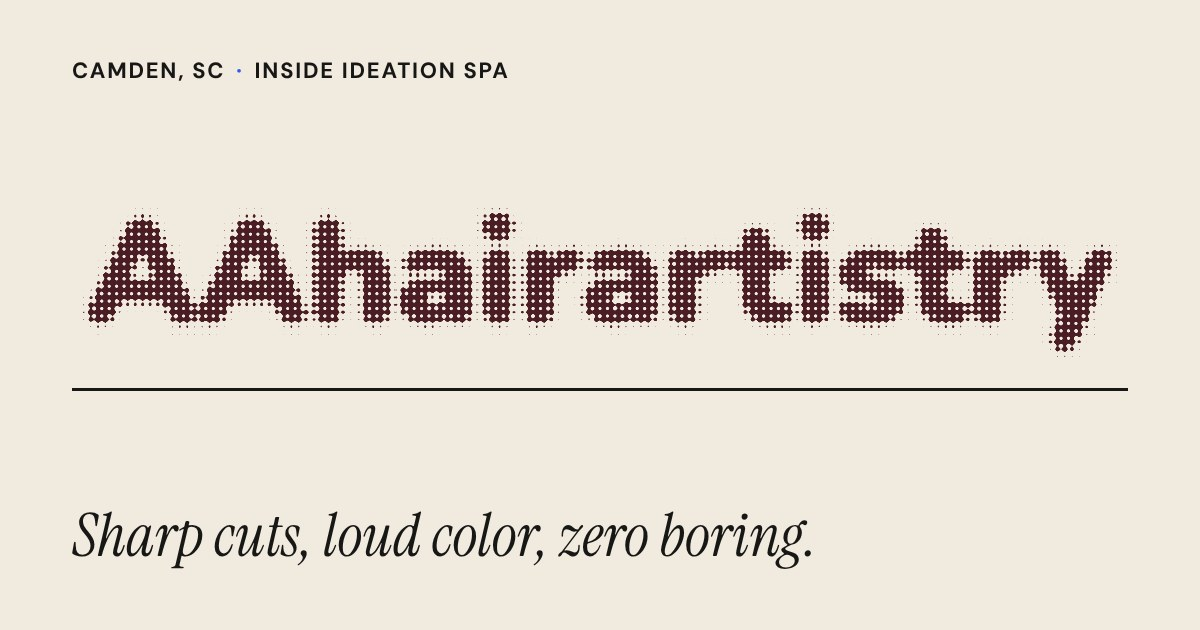
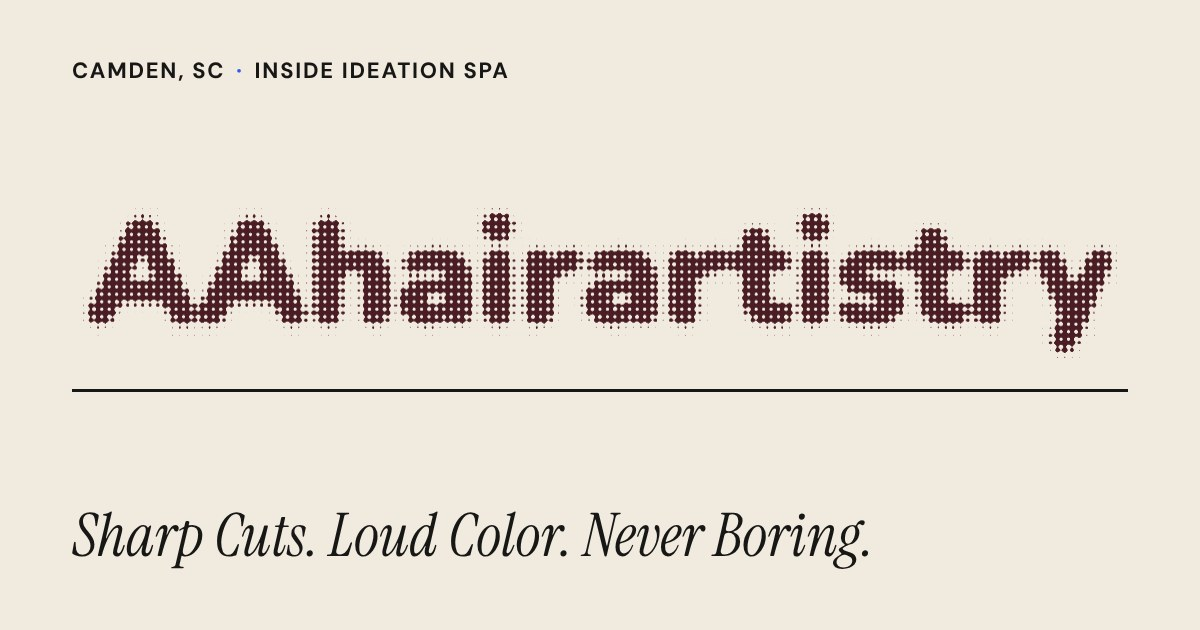
New tagline with an ink-bleed entrance
The tagline is now "Sharp Cuts. Loud Color. Never Boring." The build splits
it into phrases at commas and full stops and writes one SVG filter per
phrase (dilate, blur and turbulence displacement, animated from a swollen,
fibrous blot back to rest). js/ink.js starts them 0.42s apart once the
tagline's font has loaded, then removes the filters so the text ends up
untouched; each phrase is readable within about half a second and all three
are done by about 2.7s.

The tagline is hidden from first paint via a class set in the head and
shown after 3s if the script never runs; it is shown straight away under
reduced motion. Also keeps the wordmark's 3s plain-type safety net working
under reduced motion (the global no-animation rule had disabled it), and
regenerates the social preview image with the new slogan.

Claude-Session: https://claude.ai/code/session_01QwKD1d9HQtZuZyVLujPQKT

Changed region(s): [[0.0617, 0.3619, 0.925, 0.573], [0.1542, 0.8143, 0.74, 0.9048], [0.0617, 0.6032, 0.925, 0.6333]]

diff --git a/index.html b/index.html
@@ -6,7 +6,7 @@
   <meta name="viewport" content="width=device-width, initial-scale=1">
 
   <title>AAHairArtistry | Hair by Adam Arledge in Camden, SC</title>
-  <meta name="description" content="Sharp cuts, loud color, zero boring. Haircuts, color, highlights and balayage, and vivid color by Adam Arledge, inside Ideation Spa in Camden, SC.">
+  <meta name="description" content="Sharp Cuts. Loud Color. Never Boring. Haircuts, color, highlights and balayage, and vivid color by Adam Arledge, inside Ideation Spa in Camden, SC.">
   <meta name="theme-color" content="#F1EADF">
   <link rel="canonical" href="https://adamarledge.github.io/">
 
@@ -14,12 +14,12 @@
   <meta property="og:type" content="website">
   <meta property="og:site_name" content="AAHairArtistry">
   <meta property="og:title" content="AAHairArtistry | Hair by Adam Arledge in Camden, SC">
-  <meta property="og:description" content="Sharp cuts, loud color, zero boring. Inside Ideation Spa, Camden, SC.">
+  <meta property="og:description" content="Sharp Cuts. Loud Color. Never Boring. Inside Ideation Spa, Camden, SC.">
   <meta property="og:url" content="https://adamarledge.github.io/">
   <meta property="og:image" content="https://adamarledge.github.io/images/og-image.jpg">
   <meta property="og:image:width" content="1200">
   <meta property="og:image:height" content="630">
-  <meta property="og:image:alt" content="AAHairArtistry wordmark with the tagline Sharp cuts, loud color, zero boring.">
+  <meta property="og:image:alt" content="AAHairArtistry wordmark with the tagline Sharp Cuts. Loud Color. Never Boring.">
   <meta name="twitter:card" content="summary_large_image">
 
   <link rel="icon" href="assets/svg/favicon.svg" type="image/svg+xml">
@@ -37,11 +37,12 @@
        "js" lays out the header with the Menu button (js/main.js makes it work),
        "halftone" reserves the hero wordmark's box and hides its plain-type
        fallback until js/wordmark.js draws it (the type returns after 3s if it
-       never does). If main.js hasn't run by the time the page has loaded, the
+       never does); "ink" hides the tagline until js/ink.js bleeds it in (same
+       3s safety net). If main.js hasn't run by the time the page has loaded, the
        header goes back to its plain list of links. -->
   <script>
     (function (root) {
-      root.classList.add("js", "halftone");
+      root.classList.add("js", "halftone", "ink");
       window.addEventListener("load", function () {
         if (!root.hasAttribute("data-menu")) root.classList.remove("js");
       });
@@ -54,7 +55,7 @@
     "@context": "https://schema.org",
     "@type": "HairSalon",
     "name": "AAHairArtistry",
-    "description": "Sharp cuts, loud color, zero boring. Haircuts, color, highlights and balayage, and vivid color by Adam Arledge.",
+    "description": "Sharp Cuts. Loud Color. Never Boring. Haircuts, color, highlights and balayage, and vivid color by Adam Arledge.",
     "url": "https://adamarledge.github.io/",
     "image": "https://adamarledge.github.io/images/og-image.jpg",
     "address": {
@@ -85,6 +86,25 @@
 
   <!-- Four-point sparkle, the one recurring motif. Color comes from CSS (currentColor). -->
   <svg width="0" height="0" class="sprite" aria-hidden="true" focusable="false">
+    <!-- Ink-bleed filters for the hero tagline, one per phrase (js/ink.js) -->
+    <filter id="ink-0" x="-6%" y="-25%" width="112%" height="150%" color-interpolation-filters="sRGB">
+      <feMorphology operator="dilate" radius="0" result="spread"><animate attributeName="radius" values="1.6;0.5;0" keyTimes="0;0.35;1" calcMode="spline" keySplines="0.2 0.6 0.35 1;0.3 0.5 0.3 1" dur="1.8s" begin="indefinite" fill="freeze"/></feMorphology>
+      <feGaussianBlur in="spread" stdDeviation="0.001" result="wet"><animate attributeName="stdDeviation" values="3.5;0.9;0.001" keyTimes="0;0.35;1" calcMode="spline" keySplines="0.2 0.6 0.35 1;0.3 0.5 0.3 1" dur="1.8s" begin="indefinite" fill="freeze"/></feGaussianBlur>
+      <feTurbulence type="fractalNoise" baseFrequency="0.05 0.09" numOctaves="2" seed="7" result="fibres"/>
+      <feDisplacementMap in="wet" in2="fibres" scale="0" xChannelSelector="R" yChannelSelector="G"><animate attributeName="scale" values="16;5;0" keyTimes="0;0.35;1" calcMode="spline" keySplines="0.2 0.6 0.35 1;0.3 0.5 0.3 1" dur="1.8s" begin="indefinite" fill="freeze"/></feDisplacementMap>
+    </filter>
+    <filter id="ink-1" x="-6%" y="-25%" width="112%" height="150%" color-interpolation-filters="sRGB">
+      <feMorphology operator="dilate" radius="0" result="spread"><animate attributeName="radius" values="1.6;0.5;0" keyTimes="0;0.35;1" calcMode="spline" keySplines="0.2 0.6 0.35 1;0.3 0.5 0.3 1" dur="1.8s" begin="indefinite" fill="freeze"/></feMorphology>
+      <feGaussianBlur in="spread" stdDeviation="0.001" result="wet"><animate attributeName="stdDeviation" values="3.5;0.9;0.001" keyTimes="0;0.35;1" calcMode="spline" keySplines="0.2 0.6 0.35 1;0.3 0.5 0.3 1" dur="1.8s" begin="indefinite" fill="freeze"/></feGaussianBlur>
+      <feTurbulence type="fractalNoise" baseFrequency="0.05 0.09" numOctaves="2" seed="20" result="fibres"/>
+      <feDisplacementMap in="wet" in2="fibres" scale="0" xChannelSelector="R" yChannelSelector="G"><animate attributeName="scale" values="16;5;0" keyTimes="0;0.35;1" calcMode="spline" keySplines="0.2 0.6 0.35 1;0.3 0.5 0.3 1" dur="1.8s" begin="indefinite" fill="freeze"/></feDisplacementMap>
+    </filter>
+    <filter id="ink-2" x="-6%" y="-25%" width="112%" height="150%" color-interpolation-filters="sRGB">
+      <feMorphology operator="dilate" radius="0" result="spread"><animate attributeName="radius" values="1.6;0.5;0" keyTimes="0;0.35;1" calcMode="spline" keySplines="0.2 0.6 0.35 1;0.3 0.5 0.3 1" dur="1.8s" begin="indefinite" fill="freeze"/></feMorphology>
+      <feGaussianBlur in="spread" stdDeviation="0.001" result="wet"><animate attributeName="stdDeviation" values="3.5;0.9;0.001" keyTimes="0;0.35;1" calcMode="spline" keySplines="0.2 0.6 0.35 1;0.3 0.5 0.3 1" dur="1.8s" begin="indefinite" fill="freeze"/></feGaussianBlur>
+      <feTurbulence type="fractalNoise" baseFrequency="0.05 0.09" numOctaves="2" seed="33" result="fibres"/>
+      <feDisplacementMap in="wet" in2="fibres" scale="0" xChannelSelector="R" yChannelSelector="G"><animate attributeName="scale" values="16;5;0" keyTimes="0;0.35;1" calcMode="spline" keySplines="0.2 0.6 0.35 1;0.3 0.5 0.3 1" dur="1.8s" begin="indefinite" fill="freeze"/></feDisplacementMap>
+    </filter>
     <symbol id="sparkle" viewBox="0 0 100 100">
       <path d="M50 0C52.6 34 66 47.4 100 50 66 52.6 52.6 66 50 100 47.4 66 34 52.6 0 50 34 47.4 47.4 34 50 0Z" fill="currentColor"/>
     </symbol>
@@ -134,7 +154,7 @@
         </h1>
 
         <div class="hero__body">
-          <p class="hero__tagline"><span>Sharp cuts,</span> <span>loud color,</span> <span>zero boring.</span></p>
+          <p class="hero__tagline"><span data-ink="0">Sharp Cuts.</span> <span data-ink="1">Loud Color.</span> <span data-ink="2">Never Boring.</span></p>
           <div class="hero__detail">
             <p class="hero__summary">Haircuts, color, highlights and balayage, and vivid color by Adam Arledge.</p>
             <div class="actions">
@@ -275,5 +295,6 @@
 
   <script src="js/main.js" defer></script>
   <script src="js/wordmark.js" defer></script>
+  <script src="js/ink.js" defer></script>
 </body>
 </html>

diff --git a/js/ink.js b/js/ink.js
@@ -1,0 +1,46 @@
+// Ink bleed for the hero tagline. Each phrase soaks in like ink on paper:
+// a swollen, feathered blot with fibrous edges that draws in to crisp
+// letters. The look is an SVG filter per phrase (generated into the page by
+// scripts/build.mjs); this starts them, staggered, once the tagline's font
+// has loaded, and removes the filters when they've finished so the text ends
+// up exactly as normal. Skipped under "reduce motion".
+(function () {
+  "use strict";
+
+  var tagline = document.querySelector(".hero__tagline");
+  if (!tagline || window.matchMedia("(prefers-reduced-motion: reduce)").matches) return;
+
+  var START = 0.1;    // seconds before the first phrase, and between phrases
+  var STEP = 0.42;    // (keep in step with the animation-delay in css/styles.css)
+  var DURATION = 1.8; // each phrase's bleed (the filters' dur)
+  var phrases = tagline.querySelectorAll("[data-ink]");
+
+  function start() {
+    Array.prototype.forEach.call(phrases, function (span, i) {
+      var filter = document.getElementById("ink-" + span.getAttribute("data-ink"));
+      if (!filter || !filter.querySelector("animate").beginElementAt) return;
+      span.style.setProperty("--ink-order", i);
+      span.style.filter = "url(#" + filter.id + ")";
+      Array.prototype.forEach.call(filter.querySelectorAll("animate"), function (a) {
+        a.beginElementAt(START + i * STEP);
+      });
+    });
+    tagline.classList.add("is-bleeding");
+    // Back to plain text once every phrase has dried
+    setTimeout(function () {
+      Array.prototype.forEach.call(phrases, function (span) { span.style.filter = ""; });
+    }, (START + (phrases.length - 1) * STEP + DURATION) * 1000 + 100);
+  }
+
+  // Wait for the tagline's font so it doesn't swap mid-bleed, but not past
+  // the point where the CSS gives up and shows it anyway (3s)
+  var started = false;
+  var once = function () { if (!started) { started = true; start(); } };
+  if (document.fonts && document.fonts.load) {
+    var style = getComputedStyle(tagline);
+    document.fonts.load(style.fontStyle + " " + style.fontWeight + " 16px " + style.fontFamily, tagline.textContent).then(once, once);
+    setTimeout(once, 2500);
+  } else {
+    once();
+  }
+})();

diff --git a/css/styles.css b/css/styles.css
@@ -411,8 +411,23 @@ html:not(.js) .site-header__bar { flex-wrap: wrap; }
   line-height: 1;
   letter-spacing: -0.01em;
 }
-/* Break only at the commas */
+/* Each phrase is a span, so lines break only between phrases.
+   Ink bleed (js/ink.js): on load the phrases soak in one after another, like
+   ink on paper. Each starts as a swollen, feathered blot with fibrous edges
+   (its SVG filter in the page's sprite), then draws in to crisp letters.
+   html.ink is set in the <head> so the tagline is hidden from the first paint
+   rather than flashing; it appears anyway after 3s if the script never runs.
+   Under "reduce motion" the tagline is simply shown. */
 .hero__tagline span { display: inline-block; }
+@media (prefers-reduced-motion: no-preference) {
+  .ink .hero__tagline span { opacity: 0; animation: ink-fallback 0s 3s forwards; }
+  .ink .hero__tagline.is-bleeding span {
+    animation: ink-in 1.8s cubic-bezier(0.2, 0.6, 0.35, 1) both;
+    animation-delay: calc(0.1s + var(--ink-order, 0) * 0.42s);
+  }
+}
+@keyframes ink-fallback { to { opacity: 1; } }
+@keyframes ink-in { 0% { opacity: 0; } 30% { opacity: 1; } 100% { opacity: 1; } }
 .hero__detail { display: grid; gap: var(--s2); align-content: start; }
 .hero__detail .actions { margin-top: var(--s1); }
 .hero__summary { font-size: var(--text-lg); max-width: 32ch; }
@@ -760,6 +775,8 @@ html:has(.lightbox[open]) { overflow: hidden; }
 @media (prefers-reduced-motion: reduce) {
   html { scroll-behavior: auto; }
   *, *::before, *::after { transition: none !important; animation: none !important; }
+  /* Not motion: reveals the wordmark's plain type if its script never runs */
+  .halftone .hero__name { animation: wordmark-fallback 0s 3s forwards !important; }
 }
 
 /* ---------- Print ---------- */

diff --git a/templates/index.html b/templates/index.html
@@ -37,11 +37,12 @@
        "js" lays out the header with the Menu button (js/main.js makes it work),
        "halftone" reserves the hero wordmark's box and hides its plain-type
        fallback until js/wordmark.js draws it (the type returns after 3s if it
-       never does). If main.js hasn't run by the time the page has loaded, the
+       never does); "ink" hides the tagline until js/ink.js bleeds it in (same
+       3s safety net). If main.js hasn't run by the time the page has loaded, the
        header goes back to its plain list of links. -->
   <script>
     (function (root) {
-      root.classList.add("js", "halftone");
+      root.classList.add("js", "halftone", "ink");
       window.addEventListener("load", function () {
         if (!root.hasAttribute("data-menu")) root.classList.remove("js");
       });
@@ -58,6 +59,8 @@
 
   <!-- Four-point sparkle, the one recurring motif. Color comes from CSS (currentColor). -->
   <svg width="0" height="0" class="sprite" aria-hidden="true" focusable="false">
+    <!-- Ink-bleed filters for the hero tagline, one per phrase (js/ink.js) -->
+{{{inkFilters}}}
     <symbol id="sparkle" viewBox="0 0 100 100">
       <path d="M50 0C52.6 34 66 47.4 100 50 66 52.6 52.6 66 50 100 47.4 66 34 52.6 0 50 34 47.4 47.4 34 50 0Z" fill="currentColor"/>
     </symbol>
@@ -194,5 +197,6 @@
 {{{lightbox}}}
   <script src="js/main.js" defer></script>
   <script src="js/wordmark.js" defer></script>
+  <script src="js/ink.js" defer></script>
 </body>
 </html>

diff --git a/README.md b/README.md
@@ -75,6 +75,8 @@ The heading's text stays real for screen readers and search engines; without Jav
 
 The letters are **SF Pro Rounded** (Heavy/Black) on iPhone, iPad and Mac, through the CSS `ui-rounded` font keyword. Apple's license doesn't allow SF Pro Rounded to be embedded on a website, so other devices (Android, Windows) get **Nunito**, a free rounded font, requested from Google Fonts for just the wordmark's letters. The dot size, density and texture are the constants at the top of `js/wordmark.js`; `CELLS_PER_CAP` is the main legibility control (fewer rows = bigger dots, harder to read).
 
+**Tagline:** "Sharp Cuts. Loud Color. Never Boring." (`business.tagline` in `content/site.mjs`). On load each phrase bleeds in like ink on paper: it arrives as a swollen, feathered blot with fibrous edges and dries to crisp letters in about 1.8 seconds, the three phrases 0.42 seconds apart, all done by about 2.7 seconds and readable well before that. The build splits the tagline into phrases at commas and full stops and writes one SVG filter per phrase into the page; `js/ink.js` starts them and removes them when they finish, so the text ends up as ordinary text. It's skipped under "reduce motion", and the tagline shows anyway after 3 seconds if the script never runs. The strength of the bleed is the `values` in `inkAnimate` in `scripts/build.mjs` (spread, blur and edge roughness at the start, at 35% and at the end).
+
 **Fonts** (Google Fonts): the rounded wordmark face above, Anton for section headings, DM Sans for navigation, body and interface text, Instrument Serif Italic as a sparing accent (tagline, Meet Adam intro, review quotes).
 
 **Tokens** live at the top of `css/styles.css`: color, type scale, spacing (8 / 16 / 24 / 32 / 48 / 64 / 96), one image radius (6px), one button radius (4px).
